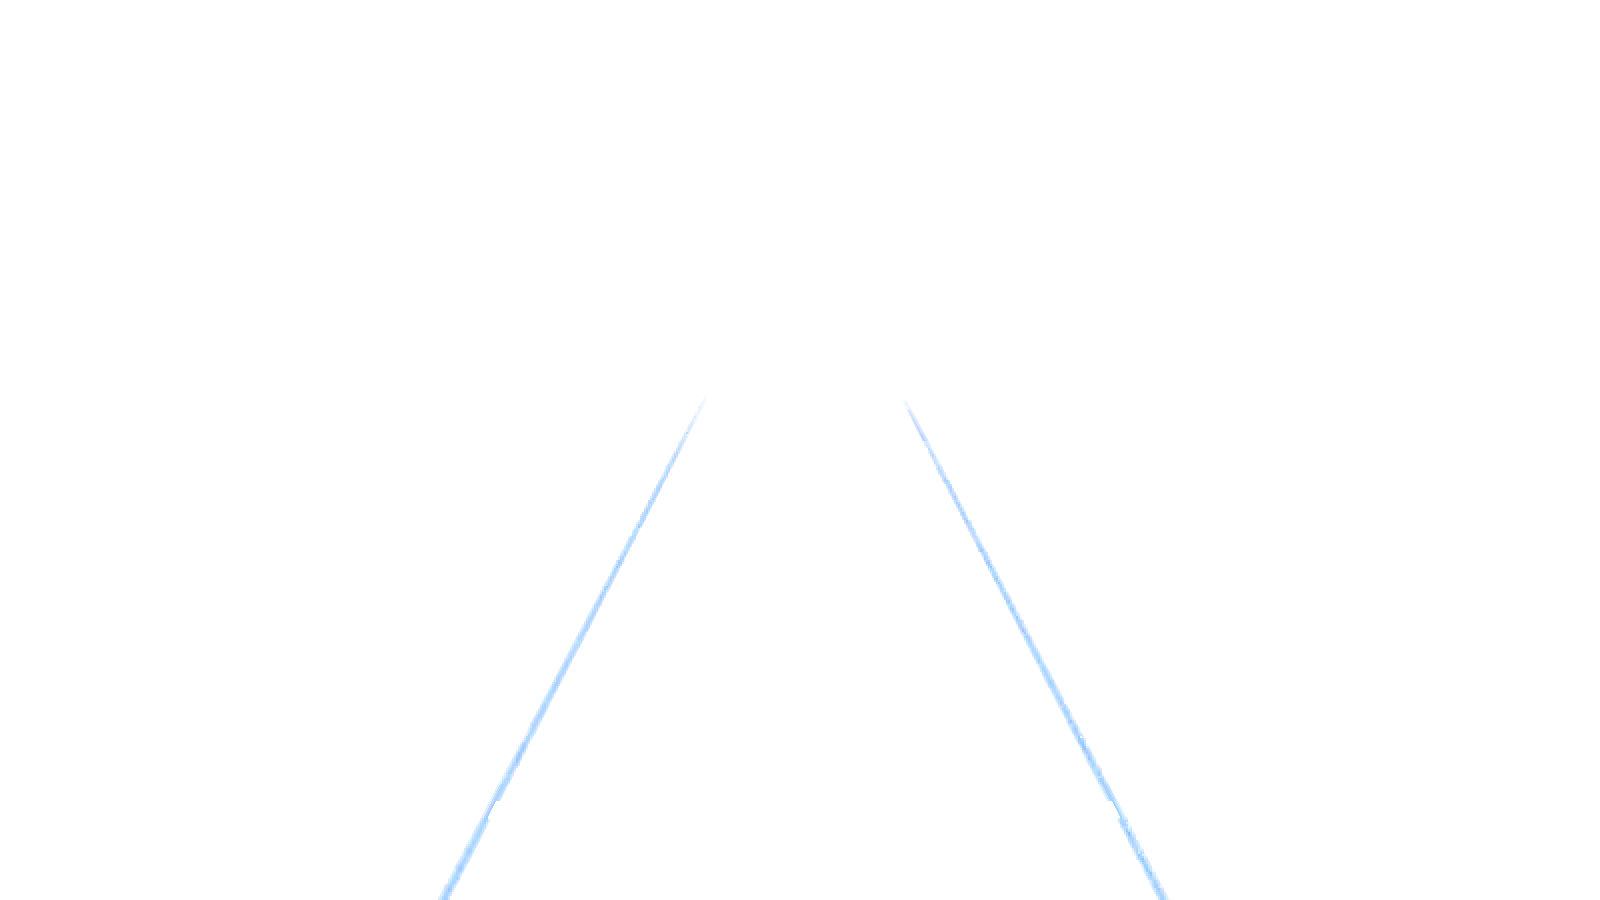
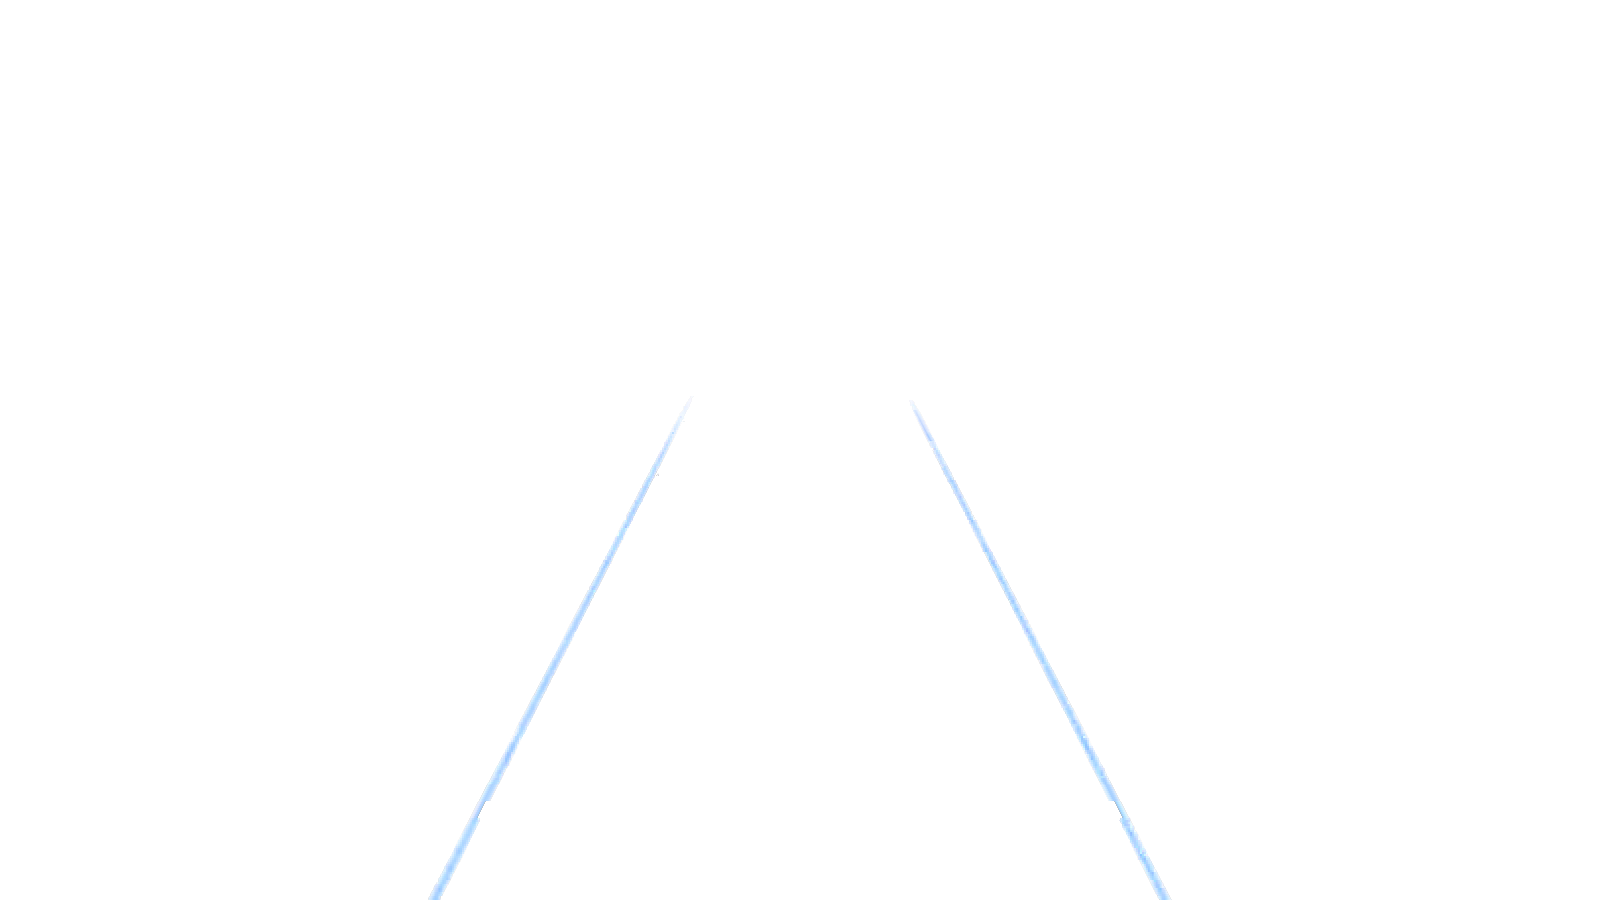
Match the highway to original GH3: camera, board tiling, scroll, fade, and rails

diff --git a/src/GameplaySpriteRenderer.cs b/src/GameplaySpriteRenderer.cs
@@ -21,9 +21,11 @@ internal sealed class GameplaySpriteRenderer
     private Transform? _neck;
     private bool _highwayApplied;
     private HighwayScroll? _scroll;
-    private const float NeckHeight = 5.05f;
     private float _stockNeckHeight;
     private float _speedSet;
+    private bool _noteRenderersSet;
+    private SpriteRenderer? _neckRenderer;
+    private static readonly int FadeParams = Shader.PropertyToID("_FadeParams");
     private ParticleSystemRenderer? _starParticles;
     private int _childCount = -1;
 
@@ -52,6 +54,8 @@ internal sealed class GameplaySpriteRenderer
         _scroll = null;
         _stockNeckHeight = 0;
         _speedSet = 0;
+        _noteRenderersSet = false;
+        _neckRenderer = null;
         _starParticles = null;
         _childCount = -1;
     }
@@ -81,16 +85,30 @@ internal sealed class GameplaySpriteRenderer
             _effects.Clear();
             CachePlayer(_player);
             _childCount = _player.childCount;
+            ShowNotesToHighwayTop();
             MelonLogger.Msg($"Cached {_notes.Count} note objects and {_effects.Count} gameplay renderers");
         }
         if (_camera != null)
-            _camera.localPosition = new Vector3(-0.005f, 1, -3.97f);
+        {
+            _camera.localPosition = new Vector3(0, HighwayView.CameraHeight, HighwayView.CameraZ);
+            _camera.localEulerAngles = new Vector3(HighwayView.CameraPitch, 0, 0);
+            player.mainCamera.fieldOfView = HighwayView.FieldOfView;
+        }
+        for (var lane = 0; lane < _frets.Length; lane++)
+        {
+            var fret = _frets[lane];
+            if (fret == null) continue;
+            var position = fret.localPosition;
+            position.x = (lane - 2) * HighwayView.LaneWidth;
+            fret.localPosition = position;
+        }
         if (_neck != null)
         {
             if (_stockNeckHeight == 0) _stockNeckHeight = _neck.localScale.y;
-            _neck.localScale = new Vector3(0.96f, NeckHeight, 1);
+            _neck.localScale = new Vector3(HighwayView.NeckWidth, HighwayView.NeckLength, 1);
         }
         KeepHighwayAtNoteSpeed();
+        FadeHighwayTop();
         if (_starParticles != null)
             _starParticles.enabled = false;
         foreach (var (renderer, _) in _stockStarPowerEffects)
@@ -143,15 +161,47 @@ internal sealed class GameplaySpriteRenderer
         MelonLogger.Msg("Applied GH3 highway through Clone Hero's highway scroll");
     }
 
-    // HighwayScroll moves the texture by songTime * speed / 6 UV, which matches the notes for the stock neck height.
-    // The skin stretches the neck, so the texture's scroll speed shrinks by the same factor.
+    // HighwayScroll sizes the texture for the stock neck. The skin sets GH3's repeat length and scrolls it with the notes.
     private void KeepHighwayAtNoteSpeed()
     {
         if (_scroll == null || _stockNeckHeight <= 0) return;
+        var tiling = _scroll.field_Private_Vector4_0;
+        if (tiling.y != HighwayView.TextureTiling)
+        {
+            tiling.y = HighwayView.TextureTiling;
+            _scroll.field_Private_Vector4_0 = tiling;
+        }
         var speed = _scroll.field_Private_Single_1;
         if (Math.Abs(speed - _speedSet) < 1e-6f || speed <= 0) return;
-        _speedSet = speed * _stockNeckHeight / NeckHeight;
+        _speedSet = HighwayView.ScrollSpeed(speed);
         _scroll.field_Private_Single_1 = _speedSet;
+    }
+
+    // Clone Hero spawns gems 7.87 units ahead; GH3 shows them up to the top of its highway.
+    private void ShowNotesToHighwayTop()
+    {
+        if (_noteRenderersSet) return;
+        foreach (var renderer in UnityEngine.Object.FindObjectsOfType<GuitarNoteRenderer>())
+        {
+            renderer.noteZPosFarLimit = HighwayView.NeckStartZ + HighwayView.NeckLength * HighwayView.NeckSpriteLength;
+            renderer.field_Protected_Double_0 = renderer.noteZPosFarLimit / renderer.noteSpeed;
+            _noteRenderersSet = true;
+        }
+    }
+
+    // The track shader fades between two viewport heights (_FadeParams z and w, from the top).
+    private void FadeHighwayTop()
+    {
+        if (_neckRenderer == null) _neckRenderer = _neck?.GetComponent<SpriteRenderer>();
+        var material = _neckRenderer?.sharedMaterial;
+        if (material == null || !material.HasProperty(FadeParams)) return;
+        var fade = material.GetVector(FadeParams);
+        var start = HighwayView.FadeStartY / HighwayView.ScreenHeight;
+        var end = (HighwayView.FadeStartY + HighwayView.FadeLength) / HighwayView.ScreenHeight;
+        if (fade.z == start && fade.w == end) return;
+        fade.z = start;
+        fade.w = end;
+        material.SetVector(FadeParams, fade);
     }
 
     private void CachePlayer(Transform transform)
@@ -239,6 +289,7 @@ internal sealed class GameplaySpriteRenderer
         }
         note.Display.enabled = true;
         note.Display.sprite = _assets.Gem(lane, kind, frame, starPowerActive);
+        note.Display.color = new Color(1, 1, 1, HighwayView.FadeAt(note.Transform.localPosition.z));
         note.Head.enabled = false;
         if (note.Body != null) note.Body.enabled = false;
         if (note.Anim != null) note.Anim.enabled = false;

diff --git a/src/HighwayView.cs b/src/HighwayView.cs
@@ -1,0 +1,60 @@
+namespace Gh3Skin;
+
+// GH3's highway as measured in a 1600 x 900 recording of original GH3 (My Curse, Expert):
+// rails meet at VanishingY, the frets are at StrikeY, and a beat line τ seconds before the frets
+// is drawn at VanishingY + DepthScale / (τ + DepthScale / (StrikeY - VanishingY)).
+// The player camera that reproduces this projection follows from Clone Hero's note speed and lane width.
+// DepthScale is calibrated so that the skin's beat lines and gems both land on GH3's (within 0.5%).
+internal static class HighwayView
+{
+    public const float ScreenHeight = 900;
+    public const float VanishingY = 183.6f;
+    public const float StrikeY = 796.5f;
+    public const float DepthScale = 442.8f;
+    public const float LaneSpacing = 128.3f;
+    public const float RailSlope = 0.5102f;
+    // GH3 highway_top_width1 = 160 at y 305 in GH3's 1280 x 720 layout (highway_playline1 655 - highway_height1 350).
+    public const float TopY = 305 * ScreenHeight / 720;
+    public const float TextureWidth = 0.987f;
+    // The board, gems and beat lines fade in between these rows (measured from the board's contrast in GH3 frames).
+    public const float FadeStartY = 384;
+    public const float FadeLength = 22;
+
+    public const float NoteSpeed = 7;
+    // Clone Hero's gem lanes; its fret sprites sit 0.2 apart, so the skin moves them onto the gem lanes.
+    public const float LaneWidth = 0.1935f;
+    public const float StrikeZ = 0.09f;
+    public const float NeckStartZ = -1;
+    public const float NeckSpriteHalfWidth = 0.48f;
+    public const float NeckSpriteLength = 1.92f;
+
+    public static readonly float LeadTime = DepthScale / (StrikeY - VanishingY);
+    private static readonly float FocalOverCos = LaneSpacing * NoteSpeed * LeadTime / LaneWidth;
+    public static readonly float PitchRadians = MathF.Asin((ScreenHeight / 2 - VanishingY) / FocalOverCos);
+    public static readonly float Focal = FocalOverCos * MathF.Cos(PitchRadians);
+    public static readonly float FieldOfView = 2 * MathF.Atan(ScreenHeight / 2 / Focal) * 180 / MathF.PI;
+    public static readonly float CameraPitch = PitchRadians * 180 / MathF.PI;
+    public static readonly float CameraHeight = DepthScale * NoteSpeed * MathF.Pow(MathF.Cos(PitchRadians), 2) / Focal;
+    public static readonly float CameraZ = StrikeZ - (LeadTime * NoteSpeed - CameraHeight * MathF.Tan(PitchRadians));
+    public static readonly float NeckWidth = TextureWidth * RailSlope * (StrikeY - VanishingY) / LaneSpacing * LaneWidth / NeckSpriteHalfWidth;
+    public static readonly float TopTime = TimeAt(TopY);
+    public static readonly float NeckLength = (StrikeZ + NoteSpeed * TopTime - NeckStartZ) / NeckSpriteLength;
+    // GH3's board repeats every 1 / 0.987 s of gem travel and scrolls by one repeat per second.
+    public const float RepeatsPerUnit = 0.987f / NoteSpeed;
+    public const float RepeatsPerSecond = 1;
+
+    public static float FadeAt(float z)
+    {
+        var t = Math.Clamp((ScreenY((z - StrikeZ) / NoteSpeed) - FadeStartY) / FadeLength, 0, 1);
+        return t * t * (3 - 2 * t);
+    }
+
+    public static float TimeAt(float screenY) => DepthScale / (screenY - VanishingY) - LeadTime;
+
+    public static float ScreenY(float time) => VanishingY + DepthScale / (time + LeadTime);
+
+    // Clone Hero's scroll shader moves the texture by songTime * speed / 6 UV.
+    public static float ScrollSpeed(float noteSpeed) => noteSpeed / NoteSpeed * 6 * RepeatsPerSecond;
+
+    public static float TextureTiling => NeckLength * NeckSpriteLength * RepeatsPerUnit;
+}

diff --git a/tests/Program.cs b/tests/Program.cs
@@ -200,18 +200,42 @@ foreach (var (width, height, expectedScale, expectedX, expectedCenterY, expected
 
 foreach (var (width, height) in new[] { (1600, 900), (2560, 1440), (1600, 1200), (1920, 1200), (3440, 1440) })
 {
-    var rails = HudViewport.ForHighway(height, 0, 0, width, height, 20);
+    var rails = HudViewport.ForHighway(height, 0, 0, width, height, HighwayView.FieldOfView);
     if (Math.Abs(1080 * rails.Scale - height) > 0.001f ||
         Math.Abs(rails.OffsetX + 960 * rails.Scale - width / 2f) > 0.001f ||
         Math.Abs(rails.CenterOffsetY) > 0.001f)
         throw new Exception($"Highway projection must preserve its aspect ratio at {width} x {height}");
 }
-if (HudViewport.ForHighway(900, 0, 0, 1600, 900, 40).Scale >= HudViewport.ForHighway(900, 0, 0, 1600, 900, 20).Scale)
+if (HudViewport.ForHighway(900, 0, 0, 1600, 900, 40).Scale >= HudViewport.ForHighway(900, 0, 0, 1600, 900, HighwayView.FieldOfView).Scale)
     throw new Exception("Wider camera field of view must reduce rail size");
-var letterbox = HudViewport.ForHighway(1200, 0, 0, 1600, 900, 20);
+var letterbox = HudViewport.ForHighway(1200, 0, 0, 1600, 900, HighwayView.FieldOfView);
 Equal(300f, letterbox.CenterOffsetY, "rails follow the bottom-aligned game camera at 4:3");
 Equal(0f, letterbox.OffsetX, "4:3 camera preserves horizontal rail placement");
 Equal(1600f / 1920, letterbox.Scale, "rails use camera height, not full screen height");
+
+(float X, float Y) ProjectHighway(float x, float z)
+{
+    var pitch = HighwayView.PitchRadians;
+    var dy = -HighwayView.CameraHeight;
+    var dz = z - HighwayView.CameraZ;
+    var depth = dz * MathF.Cos(pitch) - dy * MathF.Sin(pitch);
+    var up = dy * MathF.Cos(pitch) + dz * MathF.Sin(pitch);
+    return (800 + HighwayView.Focal * x / depth, 450 - HighwayView.Focal * up / depth);
+}
+foreach (var time in new[] { -0.1f, 0, 0.5f, 1, 1.4f })
+{
+    var z = HighwayView.StrikeZ + HighwayView.NoteSpeed * time;
+    var (_, y) = ProjectHighway(0, z);
+    if (Math.Abs(y - HighwayView.ScreenY(time)) > 0.05f)
+        throw new Exception($"Player camera puts a gem {time} s ahead at y {y}, GH3 at {HighwayView.ScreenY(time)}");
+}
+var (strikeLeft, strikeY) = ProjectHighway(-2 * HighwayView.LaneWidth, HighwayView.StrikeZ);
+var (strikeRight, _) = ProjectHighway(2 * HighwayView.LaneWidth, HighwayView.StrikeZ);
+if (Math.Abs(strikeY - HighwayView.StrikeY) > 0.05f || Math.Abs((strikeRight - strikeLeft) / 4 - HighwayView.LaneSpacing) > 0.05f)
+    throw new Exception($"GH3 frets are at y {HighwayView.StrikeY}, {HighwayView.LaneSpacing} px apart; camera gives {strikeY}, {(strikeRight - strikeLeft) / 4}");
+var (_, topY) = ProjectHighway(0, HighwayView.NeckStartZ + HighwayView.NeckLength * HighwayView.NeckSpriteLength);
+Equal(MathF.Round(HighwayView.TopY, 1), MathF.Round(topY, 1), "the board ends at GH3's highway top");
+Equal(6f, MathF.Round(HighwayView.ScrollSpeed(7), 4), "GH3's board moves one repeat per second at the default note speed");
 
 foreach (var active in new[] { false, true })
     for (var multiplier = 1; multiplier <= 4; multiplier++)

diff --git a/src/BeatlineVisual.cs b/src/BeatlineVisual.cs
@@ -4,10 +4,11 @@ namespace Gh3Skin;
 
 internal sealed class BeatlineVisual
 {
-    private const float ReferenceCenterX = 803.5f;
-    private const float ReferenceVanishingY = 212;
-    private const float ReferenceFadeStartY = 396;
-    private const float ReferenceFadeLength = 45;
+    private const float ReferenceCenterX = 800;
+    private const float ReferenceFadeStartY = HighwayView.FadeStartY;
+    private const float ReferenceFadeLength = HighwayView.FadeLength;
+    // GH3 beat lines end at 0.955 of the rail half-width.
+    private const float ReferenceWidthPerY = 2 * 0.955f * HighwayView.RailSlope;
     private readonly Transform _transform;
     private readonly GameObject _object;
     private readonly SpriteRenderer _source;
@@ -55,8 +56,7 @@ internal sealed class BeatlineVisual
         var referenceY = (Screen.height - position.y - viewport.CenterOffsetY) / referenceScale;
         _display.color = new Color(1, 1, 1,
             Mathf.SmoothStep(0, 1, (referenceY - ReferenceFadeStartY) / ReferenceFadeLength));
-        // GH3 line ends follow the rail perspective in the 1600 x 900 source capture.
-        var width = Math.Max(0, referenceY - ReferenceVanishingY) * referenceScale;
+        var width = Math.Max(0, referenceY - HighwayView.VanishingY) * ReferenceWidthPerY * referenceScale;
         var right = camera.WorldToScreenPoint(_transform.position + _transform.parent.right);
         var pixelsPerUnit = right.x - position.x;
         var worldWidth = width / Math.Abs(pixelsPerUnit);

diff --git a/highway_overlay.py b/highway_overlay.py
@@ -1,0 +1,40 @@
+"""Move rail overlays cut from FastGH3 captures onto the rails of original GH3.
+
+The rail images come from 1600 x 900 FastGH3 captures. Original GH3 draws its rails through
+(800, 183.6) with a slope of 0.5102 (see src/HighwayView.cs); FastGH3 rails pass through
+x = 704 and 904 at y = 400 with a slope of 0.52.
+"""
+
+import numpy as np
+from PIL import Image
+
+VANISHING_Y = 183.6
+RAIL_SLOPE = 0.5102
+CENTER_X = 800
+
+
+def fastgh3_rails(y):
+    return 704 - 0.52 * (y - 400), 904 + 0.52 * (y - 400)
+
+
+def gh3_rails(y):
+    half = RAIL_SLOPE * (y - VANISHING_Y)
+    return CENTER_X - half, CENTER_X + half
+
+
+def warp(image, top=0):
+    """Return an RGBA image whose row r shows screen row top + r with the rails at GH3's positions."""
+    source = np.asarray(image.convert("RGBA"), dtype=np.float32)
+    height, width = source.shape[:2]
+    result = np.zeros_like(source)
+    x = np.arange(width, dtype=np.float32)
+    for row in range(height):
+        y = top + row
+        old_left, old_right = fastgh3_rails(y)
+        new_left, new_right = gh3_rails(y)
+        weight = np.clip((x - new_left) / (new_right - new_left), 0, 1)
+        sample = x + (old_left - new_left) * (1 - weight) + (old_right - new_right) * weight
+        for channel in range(4):
+            result[row, :, channel] = np.interp(sample, x, source[row, :, channel], left=0, right=0)
+    return Image.fromarray(result.round().astype(np.uint8), "RGBA")
+

diff --git a/prepare-assets.py b/prepare-assets.py
@@ -7,6 +7,8 @@ from zlib import crc32
 import shutil
 from PIL import Image
 
+from highway_overlay import warp as warp_rails
+
 source = Path.home() / "games/gh3-skin-assets"
 target = Path(__file__).parent / "assets"
 target.mkdir(exist_ok=True)
@@ -131,8 +133,8 @@ for y in range(380, 900):
             blue_rails.putpixel((x, y), (min(255, red * 255 // alpha), min(255, green * 255 // alpha), min(255, blue * 255 // alpha), alpha))
             neutral = min(255, round((red + green + blue) / 3 * 1.25))
             gray_rails.putpixel((x, y), (neutral, neutral, neutral, alpha))
-blue_rails.save(target / "highway-edges-blue.png")
-gray_rails.save(target / "highway-edges-normal.png")
+warp_rails(blue_rails).save(target / "highway-edges-blue.png")
+warp_rails(gray_rails).save(target / "highway-edges-normal.png")
 for name, index in (("beatline", 79), ("beatline-beat", 90), ("beatline-half", 100), ("sustain", 53)):
     file = next(global_images.glob(f"{index:03d}_*.png"))
     image = Image.open(file).convert("RGBA")

diff --git a/prepare-star-power.py b/prepare-star-power.py
@@ -6,6 +6,8 @@ import cv2
 import numpy as np
 from PIL import Image
 
+from highway_overlay import warp
+
 root = Path(__file__).parent
 source = Path.home() / "games/gh3-skin-assets/global-gfx-png"
 target = root / "assets"
@@ -72,6 +74,6 @@ for frame, model in enumerate(models):
     alpha[alpha < 2] = 0
     color = np.divide(image * 255, alpha[:, :, None], out=np.zeros_like(image), where=alpha[:, :, None] > 0)
     rgba = np.dstack((color, alpha)).round().astype(np.uint8)
-    Image.fromarray(rgba).save(target / f"active-highway-{frame:02}.png", optimize=True)
+    warp(Image.fromarray(rgba), 380).save(target / f"active-highway-{frame:02}.png", optimize=True)
 
 print("Prepared eight GH3 active Star Power highway frames from the original textures and reference recording")

diff --git a/src/HudViewport.cs b/src/HudViewport.cs
@@ -13,7 +13,7 @@ internal readonly record struct HudViewport(float Scale, float OffsetX, float Ce
     public static HudViewport ForHighway(int screenHeight, float cameraX, float cameraY,
         float cameraWidth, float cameraHeight, float fieldOfView)
     {
-        var zoom = MathF.Tan(10 * MathF.PI / 180) / MathF.Tan(fieldOfView * MathF.PI / 360);
+        var zoom = MathF.Tan(HighwayView.FieldOfView * MathF.PI / 360) / MathF.Tan(fieldOfView * MathF.PI / 360);
         var scale = cameraHeight / 1080f * zoom;
         var offsetY = screenHeight - cameraY - cameraHeight / 2 - 540 * scale;
         return new HudViewport(scale, cameraX + cameraWidth / 2 - 960 * scale, offsetY, offsetY);

diff --git a/docs/GH3-PARITY-HANDOFF.md b/docs/GH3-PARITY-HANDOFF.md
@@ -99,6 +99,14 @@ Fixed from that comparison: back-face culling (GH3 material flag +220 marks two-
 - **Crowd lighting.** GH3's crowd script parks ped *n* at `(-500, -200 - 100n, 0)` with `LightGroup = Crowd`, next to the venue's Crowd ambient and directional lights (both at x = -500). The peds now sample lights there instead of at the audience position.
 - **Crowd card brightness.** The card pixel shader is `texture × c0 × vertex colour` with `c0 = 1`. The baked vertex colours go from black at the feet to about 0.66 at the head; the cards use them at double scale (0x80 = full). This matched GH3's crowd brightness in the comparison frames.
 
+#### Highway geometry from original GH3
+
+- **Cause.** The player camera, the rail overlay, the Star Power rail frames, and the beat-line width came from FastGH3 captures (`gh3-fast-*.png`, `gh3-long-star-power-1600x900.mp4`). FastGH3 is not the original game, and its highway has a different perspective. In the original GH3 recording (`~/.cache/gh3ref/full/gh3-mycurse-raw.mp4`) the rails meet at y 183.6 (FastGH3: 207.7) and the center is at x 800 (FastGH3: 804).
+- **Measured GH3 values (1600 × 900).** Rail slope 0.5102 px per row. Fret centers at y 796.5, 128.3 px apart. A beat line τ seconds before the frets is at y = 183.6 + 438 / (τ + 0.72). The board starts at y 381 (`highway_top_width1` 160 at y 305 in the 1280 × 720 layout, from `highway_playline1` 655 − `highway_height1` 350). The board texture is 0.987 of the rail width. It repeats every 1 / 0.987 s of gem travel and scrolls by one repeat per second (1021–1027 texture rows per second, 1024 rows per repeat). The board fades in between y 384 and y 406.
+- **Fix.** `HighwayView` calculates the player camera from these values: field of view 15.33°, pitch 4.56°, height 0.921, z −4.894. The neck is 0.970 × 6.10, so it ends at GH3's highway top. The texture tiling and the scroll speed (6 at note speed 7) are set on `HighwayScroll`. The frets move onto Clone Hero's gem lanes (0.1935 apart; the stock frets are 0.2 apart). The gem renderers spawn gems up to the highway top (Clone Hero stops at z 7.87). The track material's `_FadeParams` z and w are viewport heights from the top; the skin sets them to GH3's fade rows. Gems and beat lines use the same fade. `HudViewport` scales highway overlays relative to the new field of view. `highway_overlay.warp` moves the FastGH3 rail images onto GH3's rails in `prepare-assets.py` and `prepare-star-power.py`.
+- **Result.** Texture perspective term: GH3 −446,100, skin −446,115 (row·px). Beat-line depth scale: GH3 438.1, skin 438.1. Gem depth scale: GH3 428.2, skin 426.8. Scroll: GH3 1021–1027, skin 1024 rows/s. Frets within 2.5 px. `DepthScale` (442.8) is calibrated so that beat lines and gems both agree; the beat lines and gems in each game sit slightly off the board plane.
+- **Not matched.** In the recordings, GH3 gems reach the frets about 35 ms later relative to the audio than the skin's gems (a video delay, not geometry). Board brightness differs by up to about 10% in some rows (GH3 is warmer in the middle, darker below the frets). Gem sprite size was not compared. The score, rock meter, and other HUD positions were also tuned on FastGH3 captures; examine them against the original recording.
+
 MelonLoader's assembly generator contacted `api.melonloader.com` on every launch, and the leftover HTTPS connection crashed the CLR later. The installed game now has `force_offline_generation = true` in `UserData/Loader.cfg`; the original file is backed up as `~/.cache/gh3-install-backup-0.8.115/Loader.cfg.bak`.
 
 
